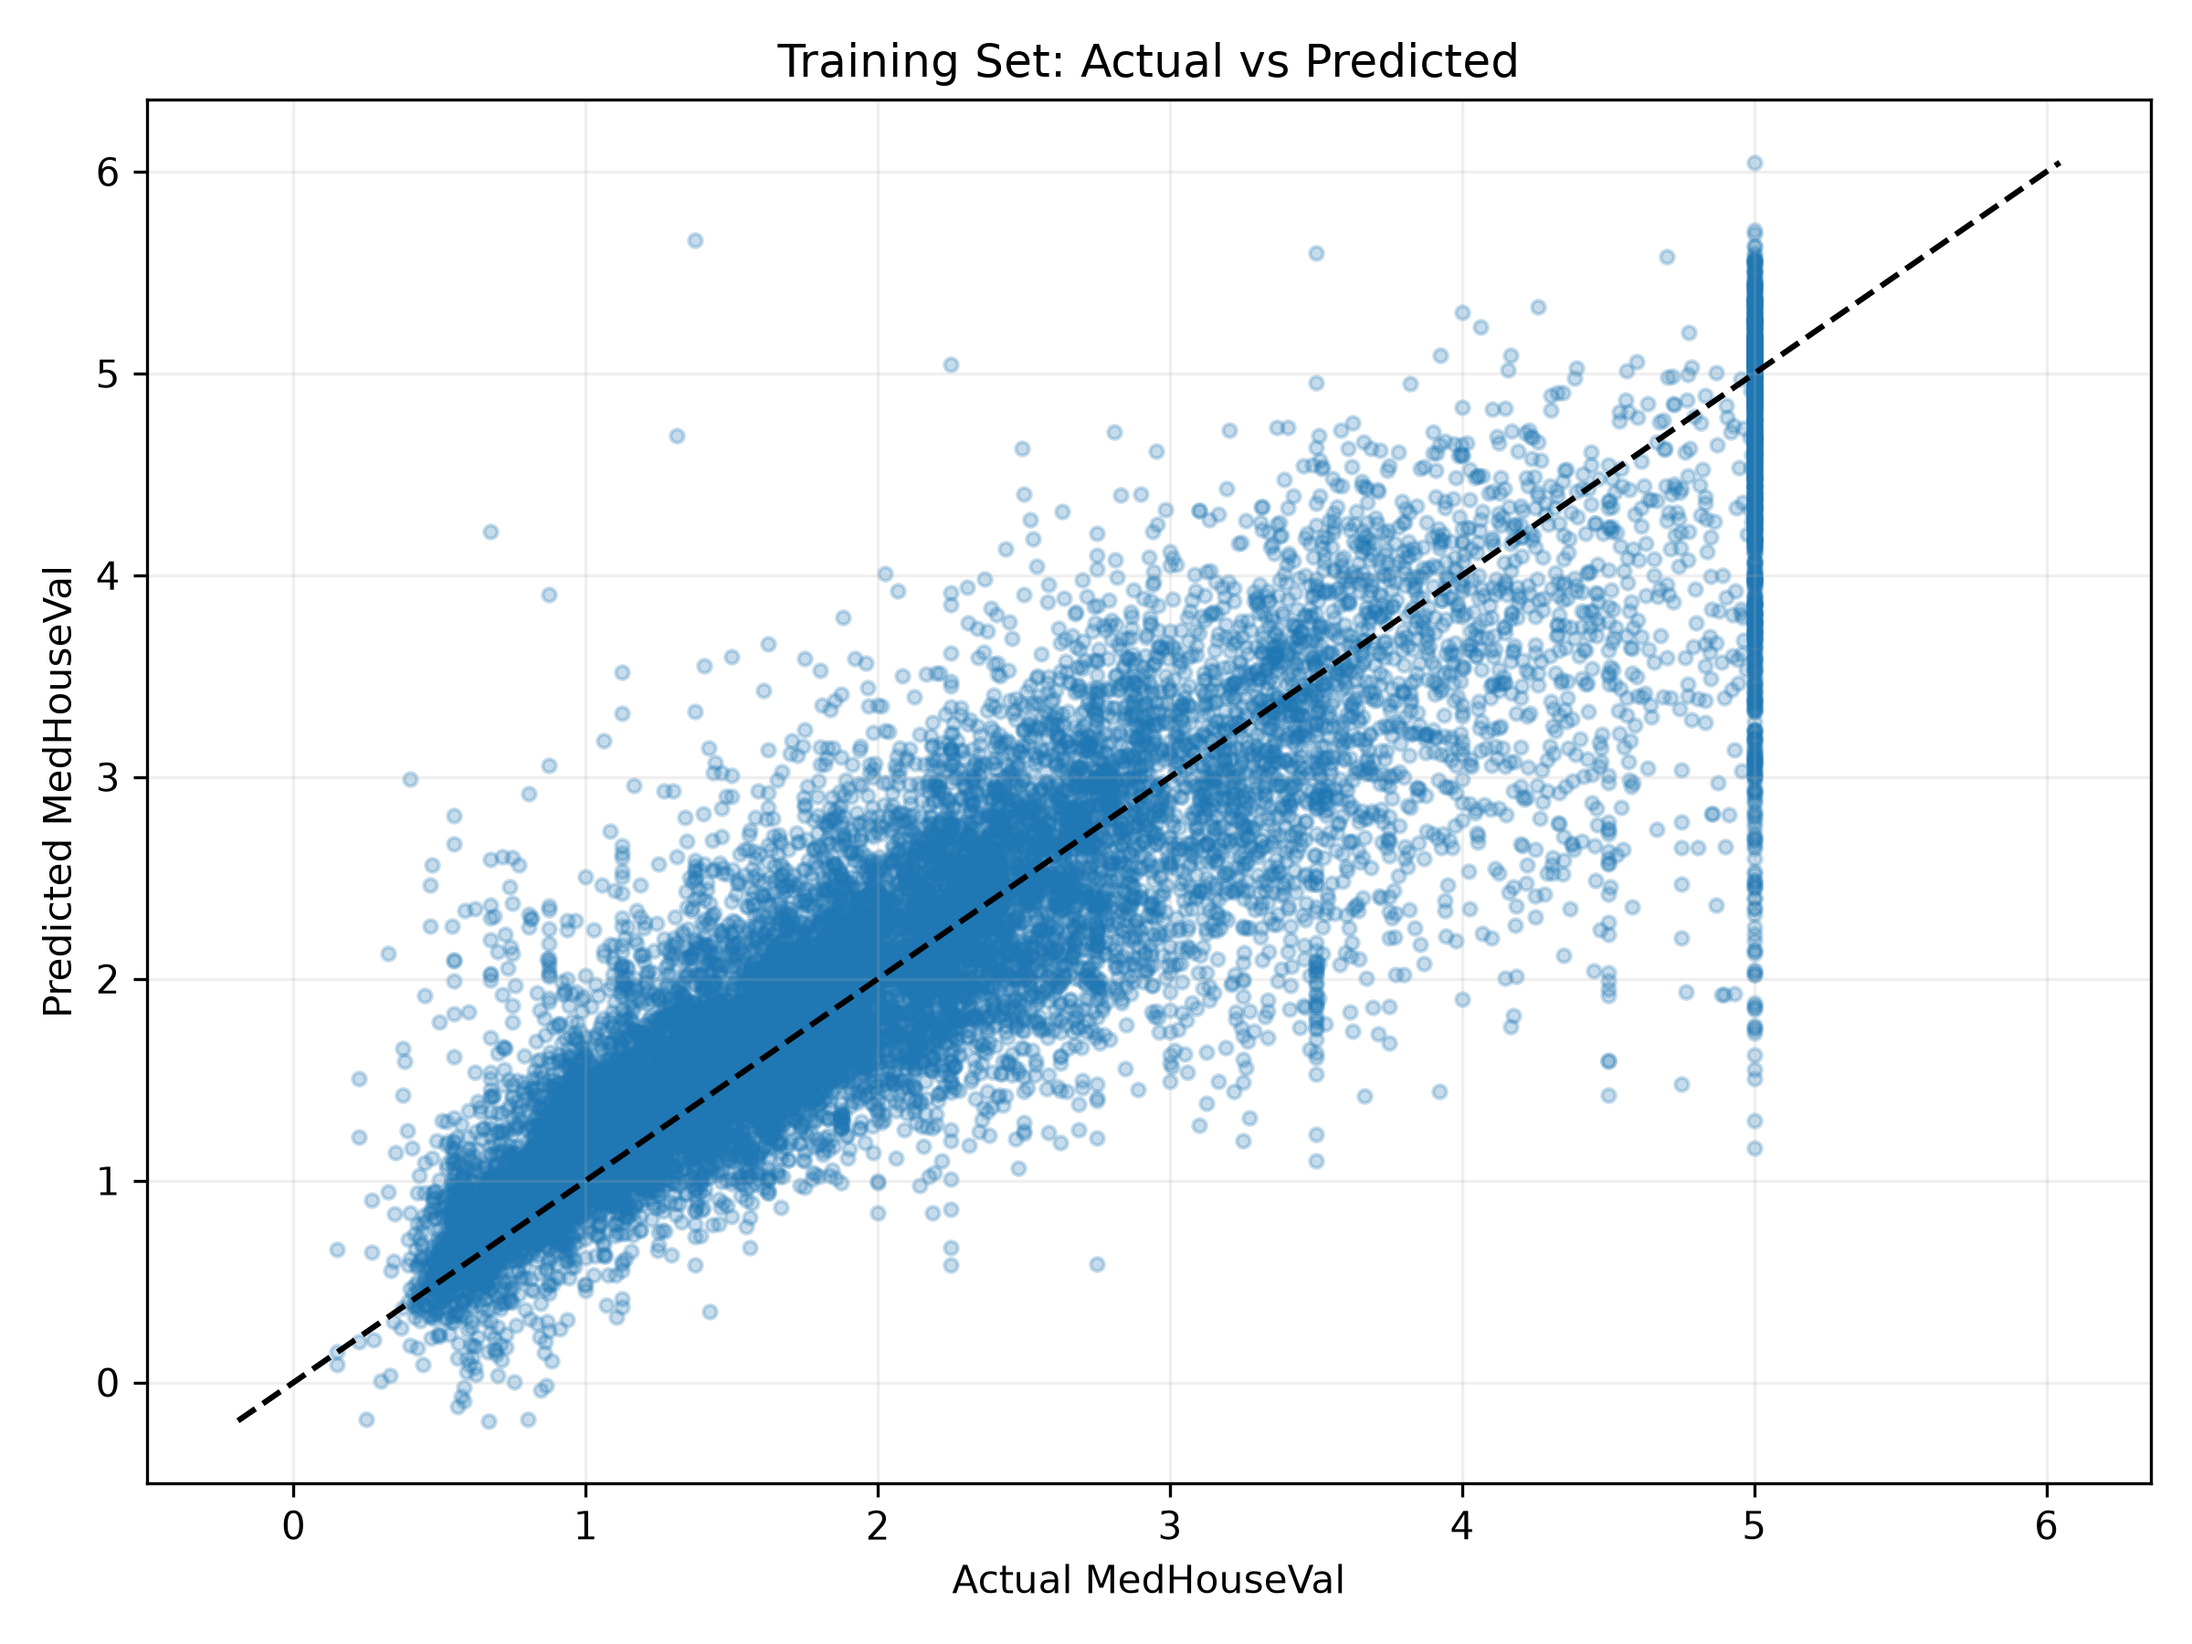
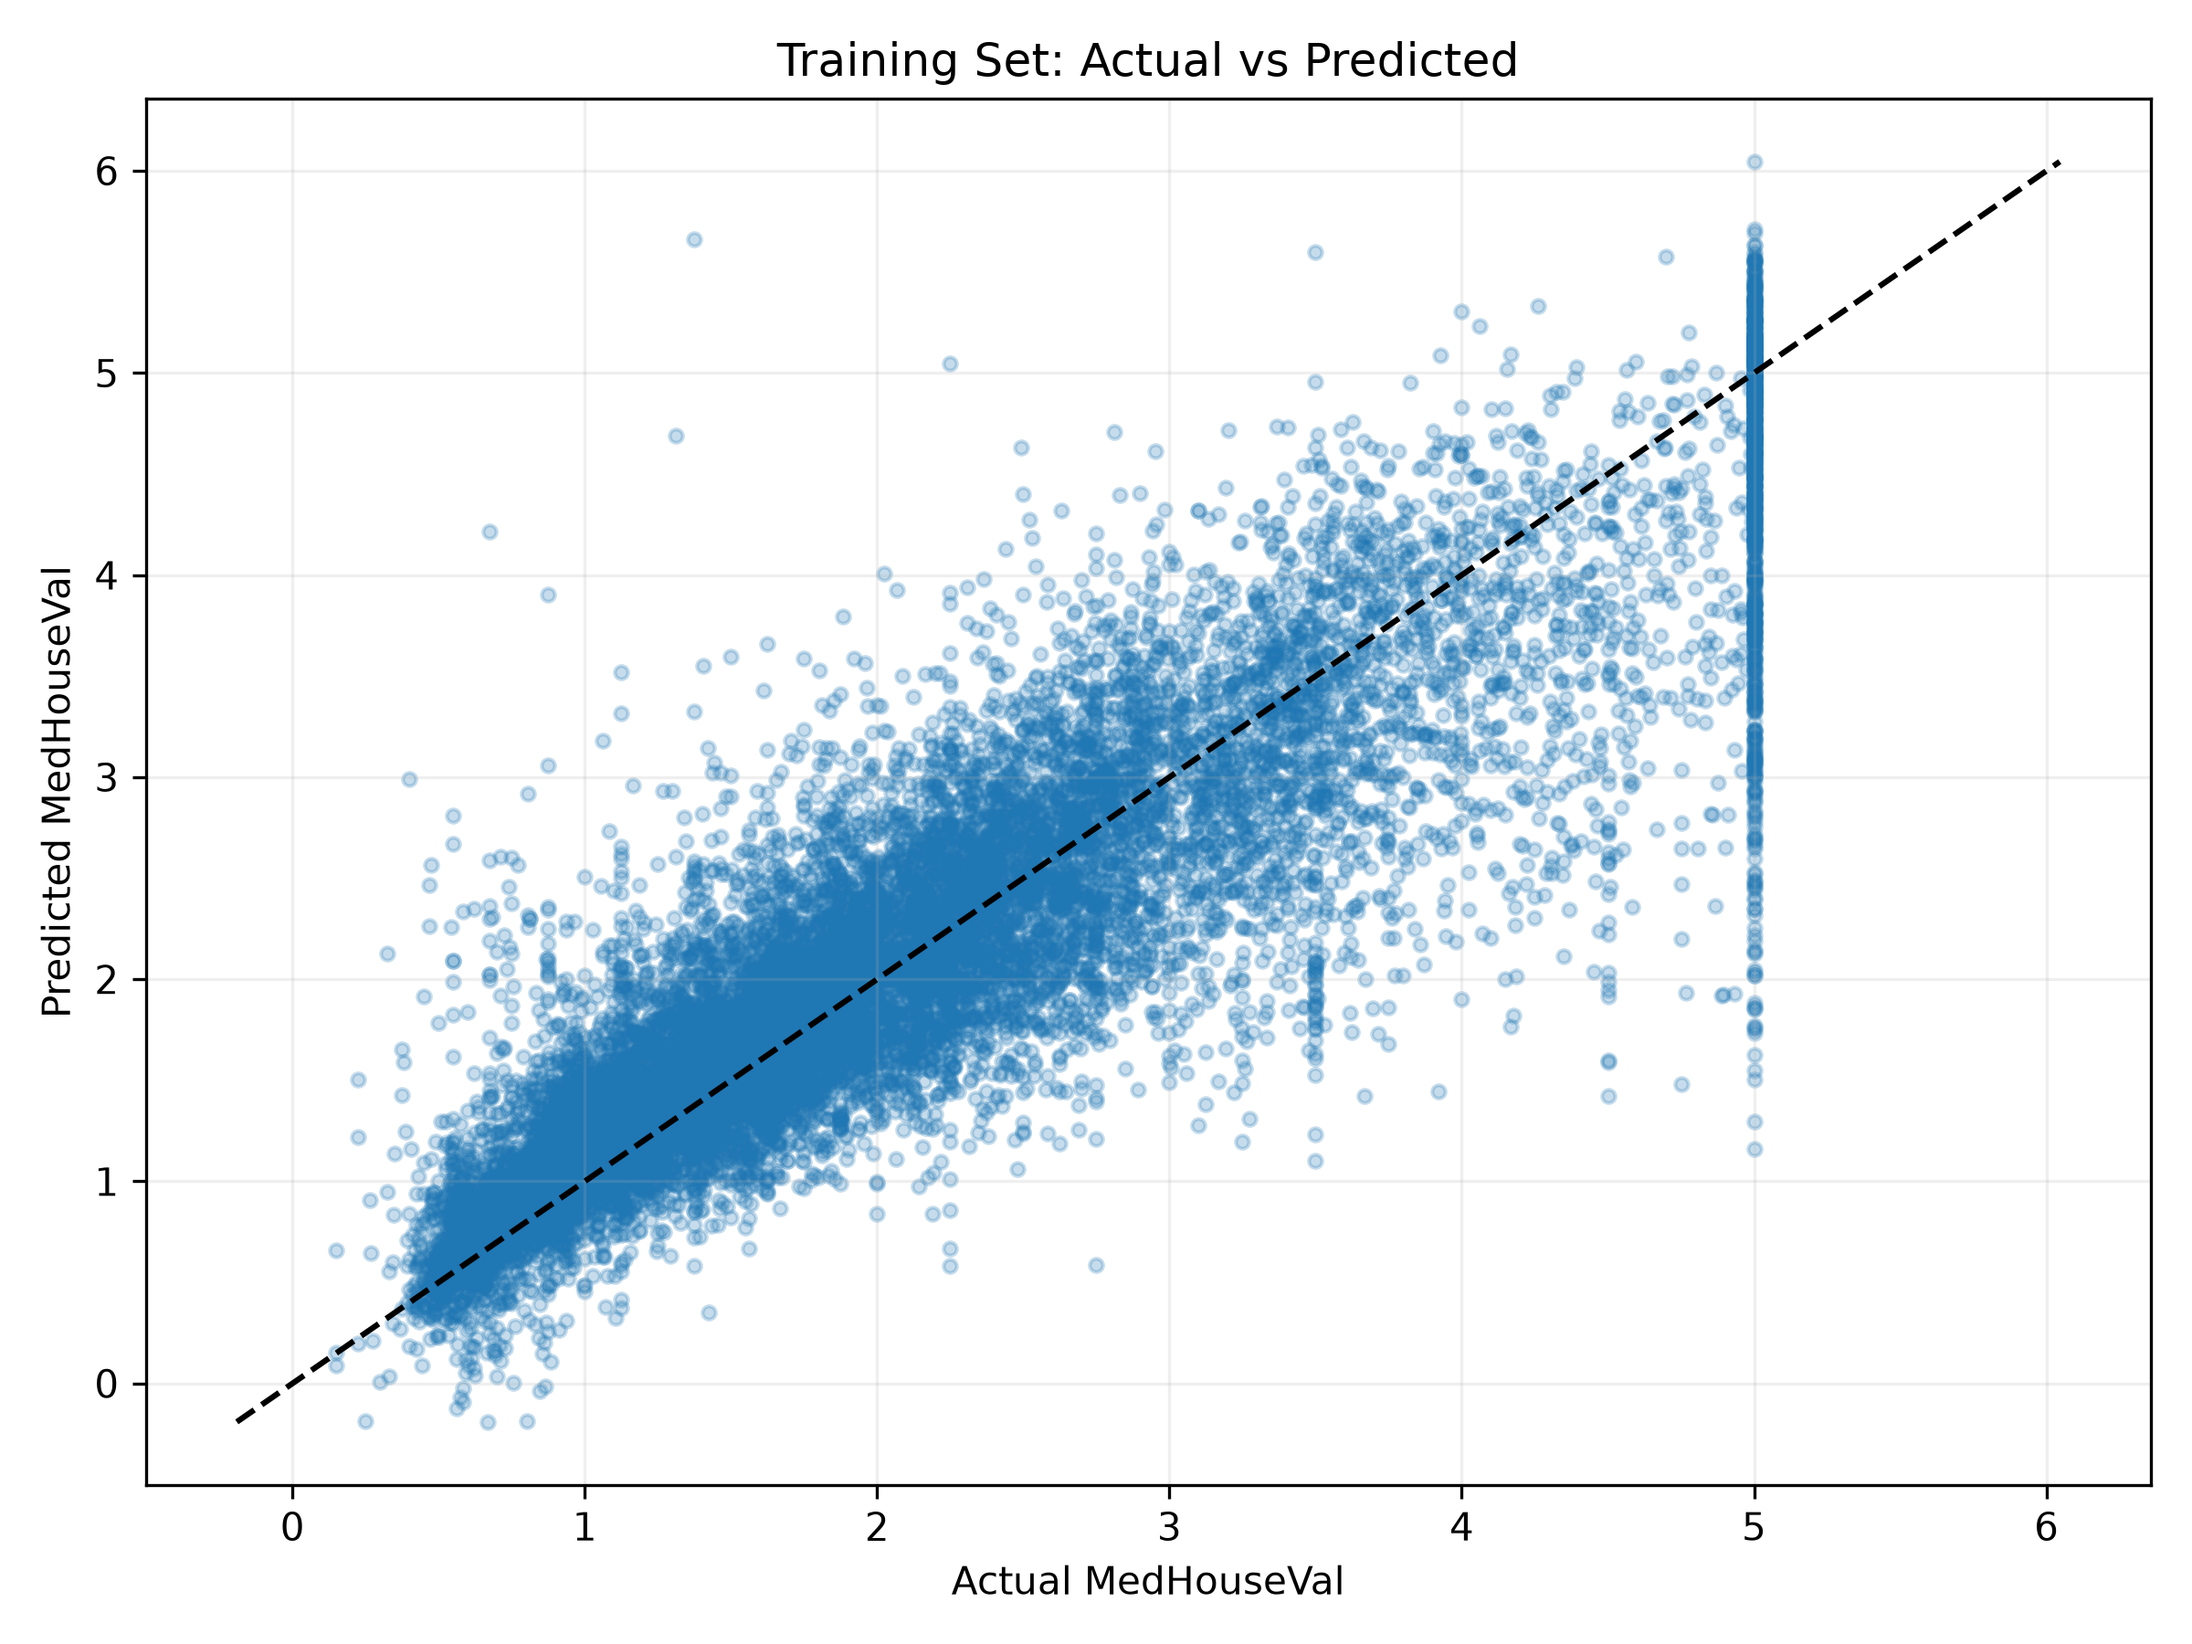
Test predictions and plot
Model applied to the test set and actual vs. predicted plot created

diff --git a/src/plots.py b/src/plots.py
@@ -68,4 +68,17 @@ os.makedirs(figs_dir, exist_ok=True)
 fig.savefig(os.path.join(figs_dir, "train_actual_vs_pred.png"), dpi=300)
 plt.close(fig)
 
+# Plot actual versus predicted values for the test set.
+fig, ax = plt.subplots(figsize=(8, 6))
+ax.scatter(y_test, y_pred, alpha=0.25, s=12)
+plot_min = min(y_test.min(), y_pred.min())
+plot_max = max(y_test.max(), y_pred.max())
+ax.plot([plot_min, plot_max], [plot_min, plot_max], color="black", linestyle="--")
+ax.set_xlabel("Actual MedHouseVal")
+ax.set_ylabel("Predicted MedHouseVal")
+ax.set_title("Test Set: Actual vs Predicted")
+ax.grid(alpha=0.2)
+fig.tight_layout()
+fig.savefig(os.path.join(figs_dir, "test_actual_vs_pred.png"), dpi=300)
+plt.close(fig)
 
